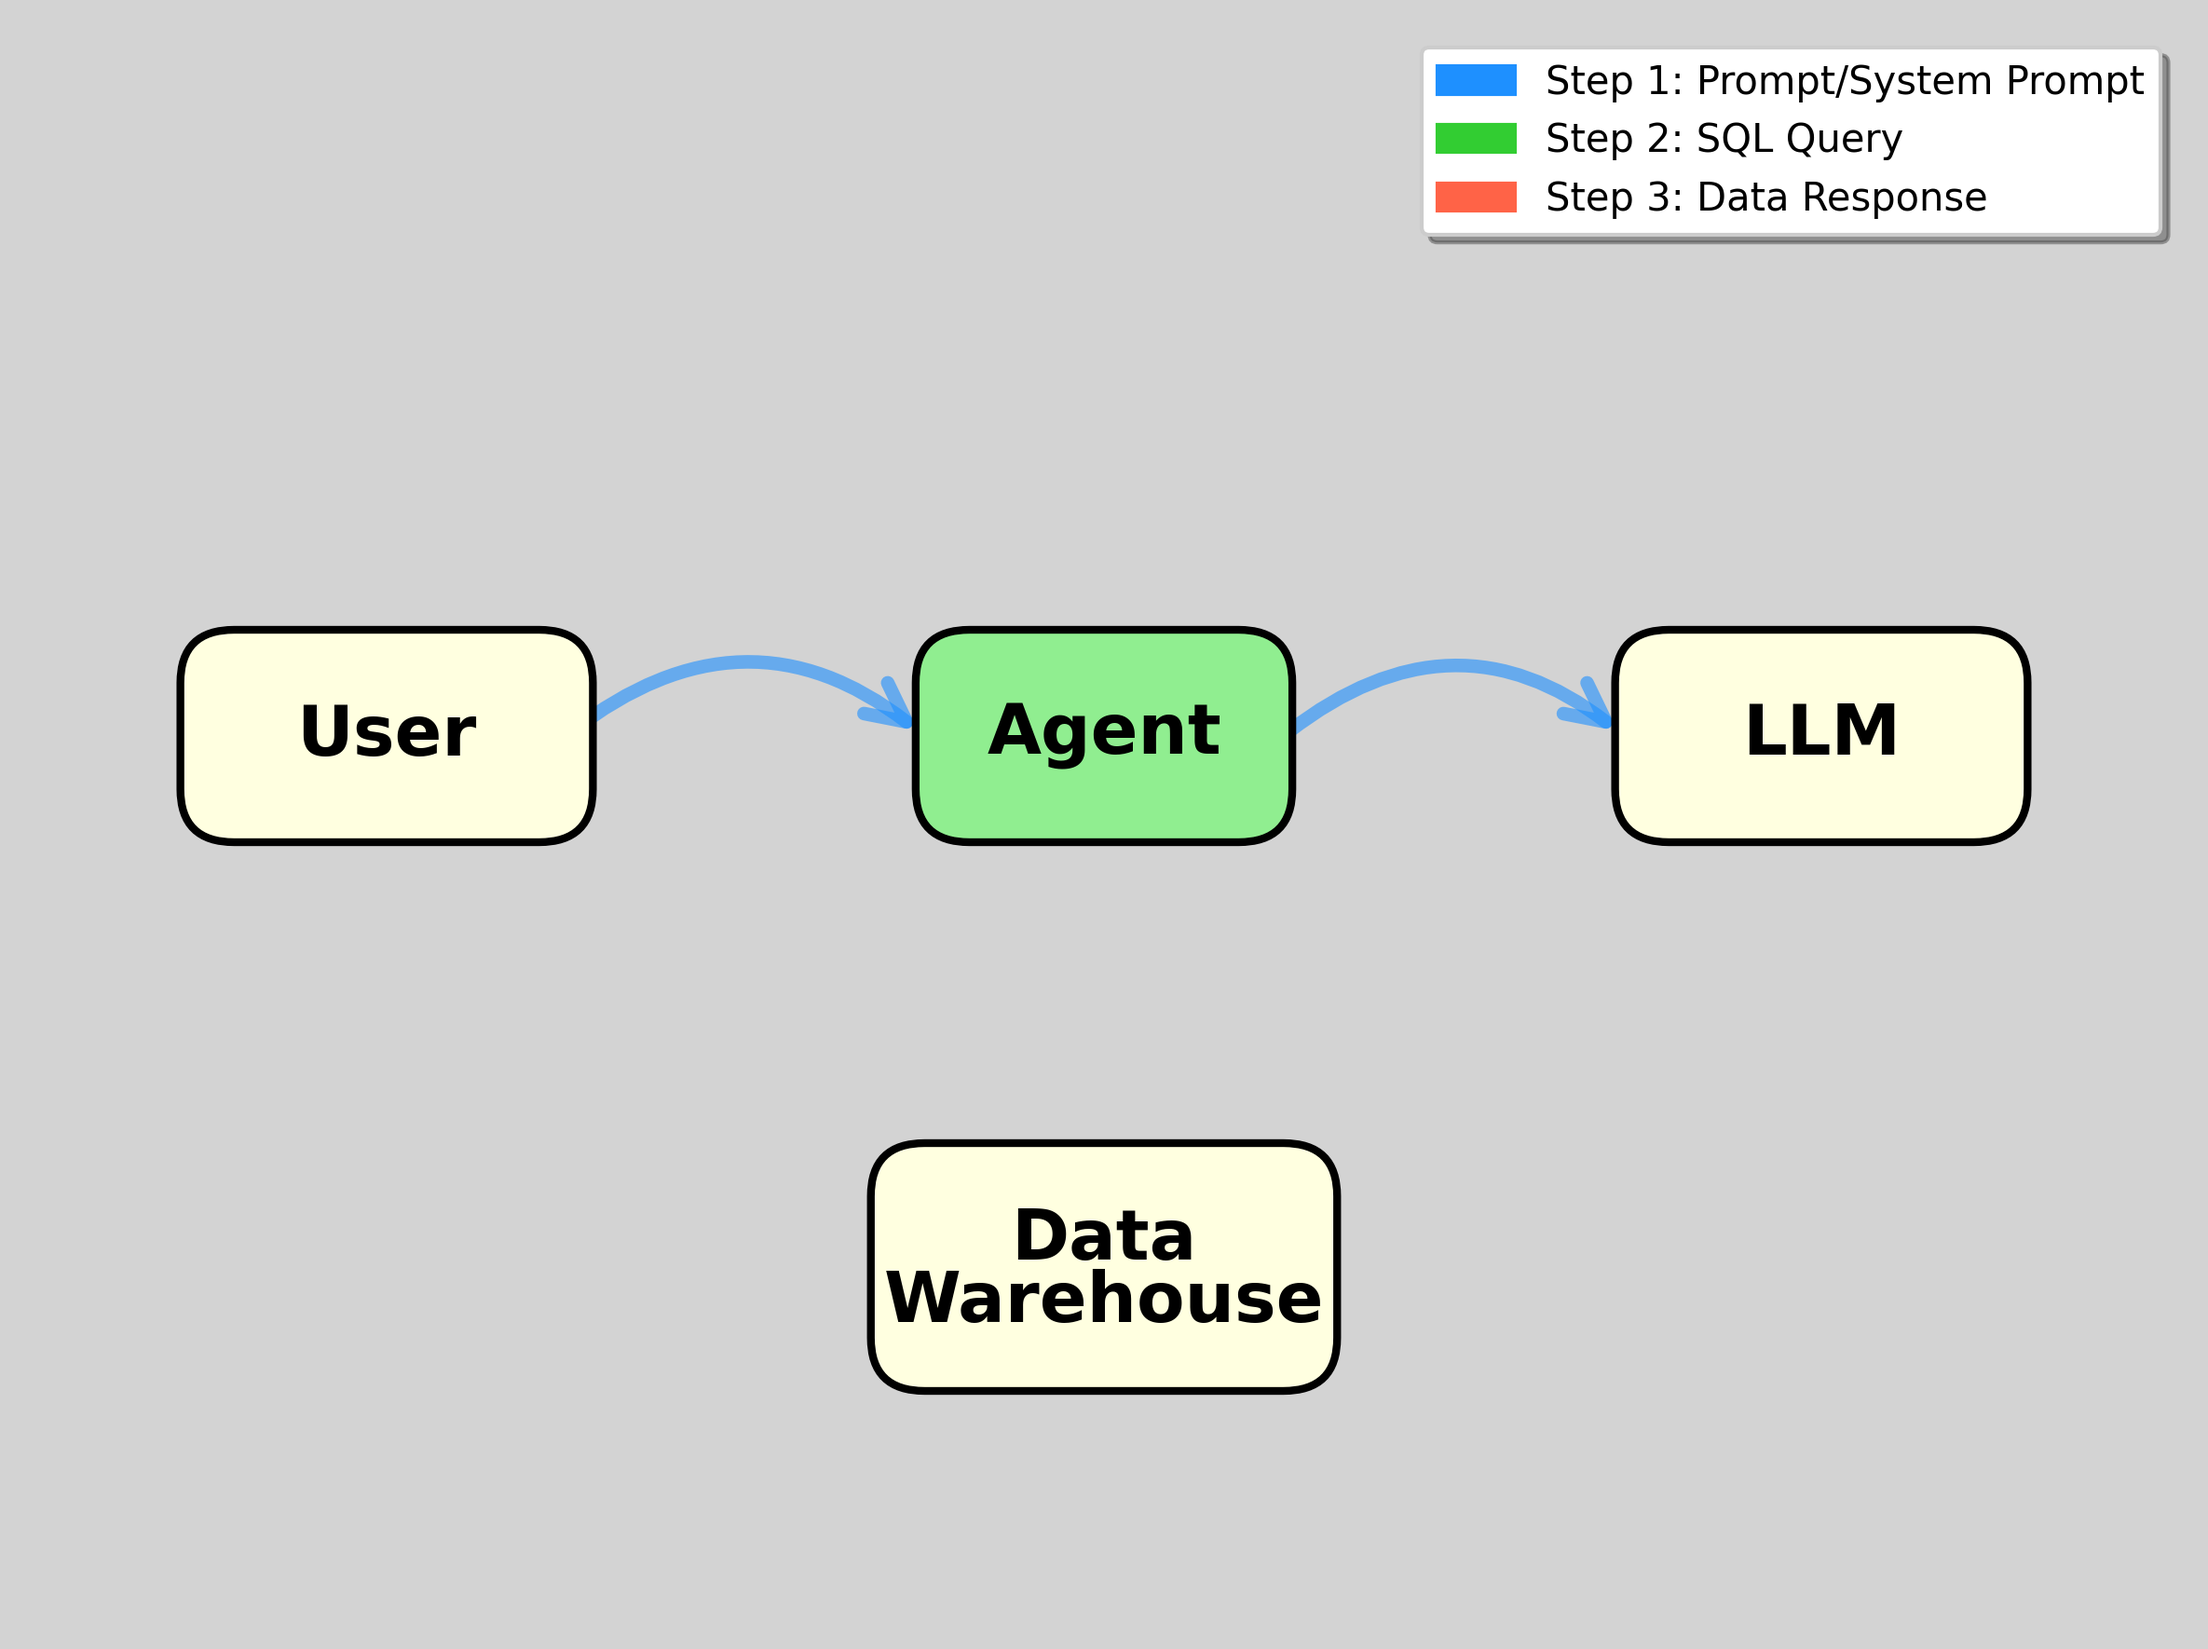
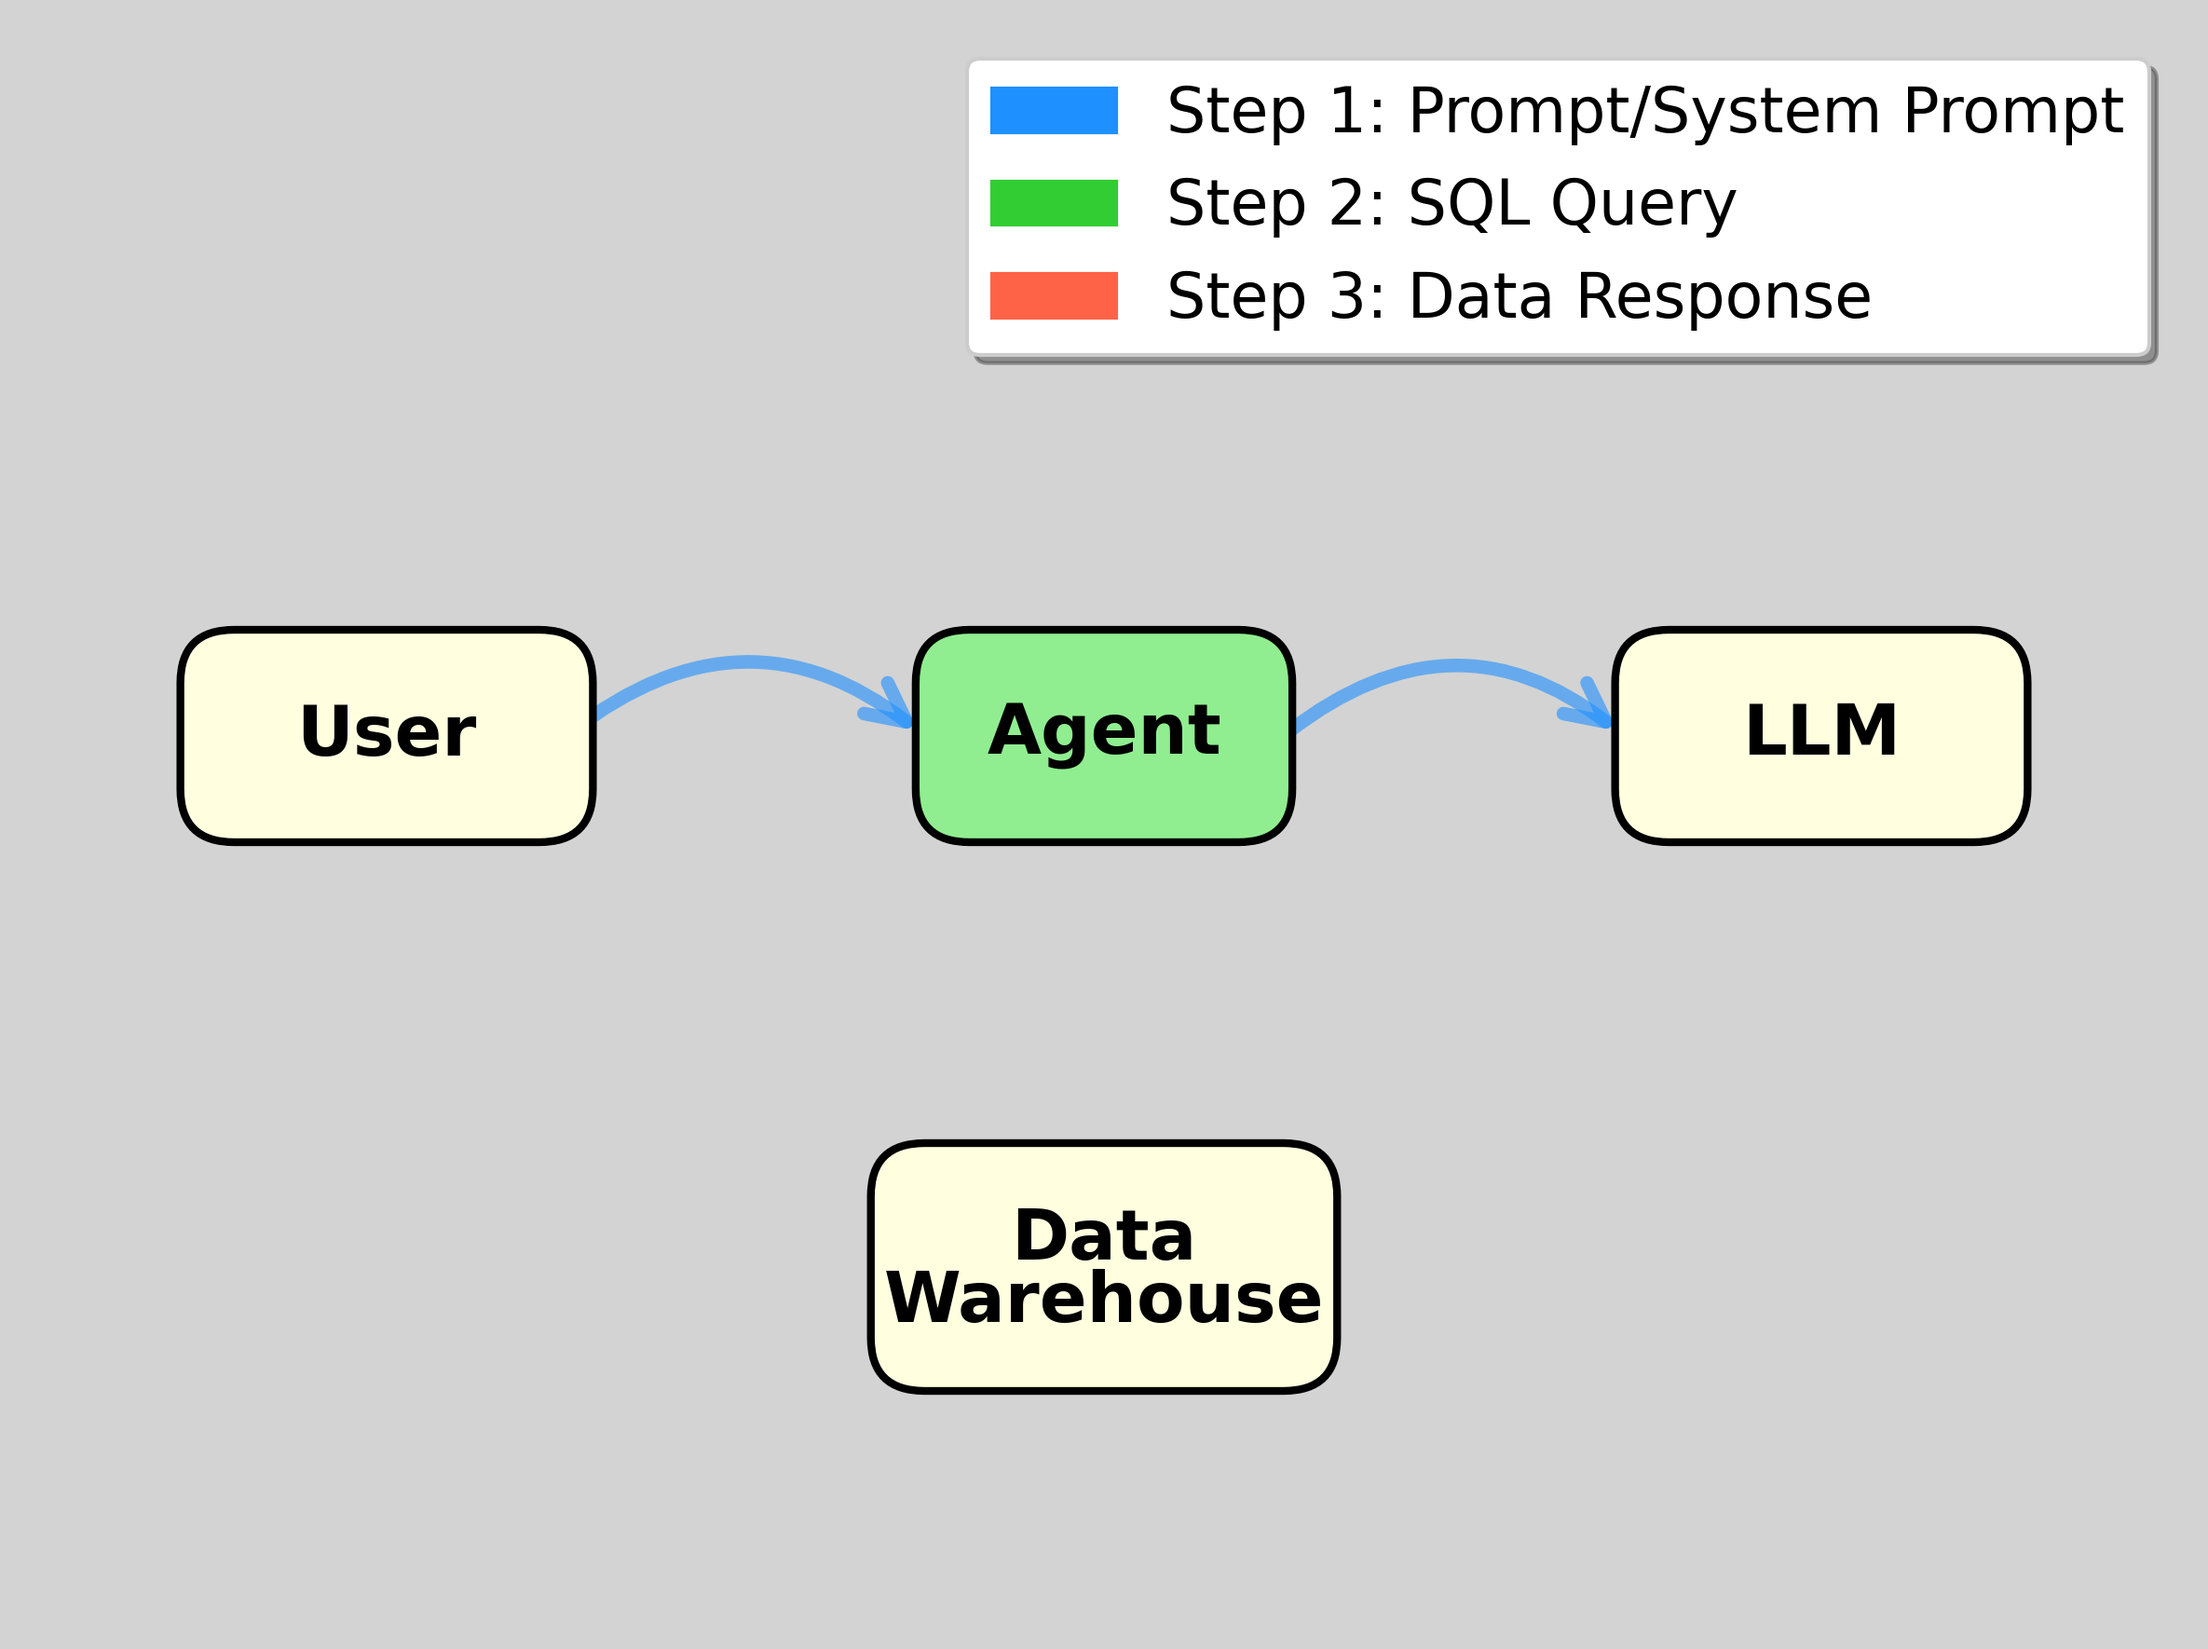
Create clean GitHub Pages structure with proper landing page
- Move presentation to docs/slides3x2.qmd
- Create index.qmd as landing page that renders to docs/
- Add _quarto.yml for project configuration
- Generate slides16x9.qmd with 16:9 dimensions
- Render all files properly with correct dependency paths
- Add CNAME for custom domain

🤖 Generated with [Claude Code](https://claude.ai/code)

Changed region(s): [[0.4371, 0.0311, 0.9992, 0.2486]]

diff --git a/create_agent_v1.py b/create_agent_v1.py
@@ -84,11 +84,11 @@ legend_elements = [
     mpatches.Patch(color=color2, label='Step 2: SQL Query'),
     mpatches.Patch(color=color3, label='Step 3: Data Response')
 ]
-ax.legend(handles=legend_elements, loc='upper right', fontsize=30, frameon=True, fancybox=True, shadow=True)
+ax.legend(handles=legend_elements, loc='upper right', fontsize=16, frameon=True, fancybox=True, shadow=True)
 
 # Save the figure
 plt.tight_layout()
-plt.savefig('agent_v1.png', dpi=300, bbox_inches='tight',
+plt.savefig('docs/agent_v1.png', dpi=300, bbox_inches='tight',
             facecolor='lightgray', edgecolor='none')
-print("First version created as ai_agent_dataflow_matplotlib_v1.png")
+print("First version created as ai_docs/agent_dataflow_matplotlib_v1.png")
 plt.close()

diff --git a/create_agent_v3.py b/create_agent_v3.py
@@ -138,11 +138,11 @@ legend_elements = [
     mpatches.Patch(color=color2, label='Step 2: SQL Query'),
     mpatches.Patch(color=color3, label='Step 3: Data Response')
 ]
-ax.legend(handles=legend_elements, loc='upper right', fontsize=30, frameon=True, fancybox=True, shadow=True)
+ax.legend(handles=legend_elements, loc='upper right', fontsize=16, frameon=True, fancybox=True, shadow=True)
 
 # Save the figure
 plt.tight_layout()
-plt.savefig('agent_v3.png', dpi=300, bbox_inches='tight',
+plt.savefig('docs/agent_v3.png', dpi=300, bbox_inches='tight',
             facecolor='lightgray', edgecolor='none')
-print("Third version created as agent_v3.png")
+print("Third version created as docs/agent_v3.png")
 plt.close()

diff --git a/create_agent_v2.py b/create_agent_v2.py
@@ -128,12 +128,12 @@ legend_elements = [
     mpatches.Patch(color=color2, label='Step 2: SQL Query'),
     mpatches.Patch(color=color3, label='Step 3: Data Response')
 ]
-ax.legend(handles=legend_elements, loc='upper right', fontsize=30, frameon=True, fancybox=True, shadow=True)
+ax.legend(handles=legend_elements, loc='upper right', fontsize=16, frameon=True, fancybox=True, shadow=True)
 
 # Save the figure
 plt.tight_layout()
 plt.savefig('agent' \
 '_v2.png', dpi=300, bbox_inches='tight',
             facecolor='lightgray', edgecolor='none')
-print("Second version created as ai_agent_dataflow_matplotlib_v2.png")
+print("Second version created as ai_docs/agent_dataflow_matplotlib_v2.png")
 plt.close()

diff --git a/create_agent_v4.py b/create_agent_v4.py
@@ -150,11 +150,11 @@ legend_elements = [
     mpatches.Patch(color=color2, label='Step 2: SQL Query'),
     mpatches.Patch(color=color3, label='Step 3: Data Response')
 ]
-ax.legend(handles=legend_elements, loc='upper right', fontsize=30, frameon=True, fancybox=True, shadow=True)
+ax.legend(handles=legend_elements, loc='upper right', fontsize=16, frameon=True, fancybox=True, shadow=True)
 
 # Save the figure
 plt.tight_layout()
-plt.savefig('agent_v4.png', dpi=300, bbox_inches='tight',
+plt.savefig('docs/agent_v4.png', dpi=300, bbox_inches='tight',
             facecolor='lightgray', edgecolor='none')
-print("Diagram created as agent_v4.png")
+print("Diagram created as docs/agent_v4.png")
 plt.close()
